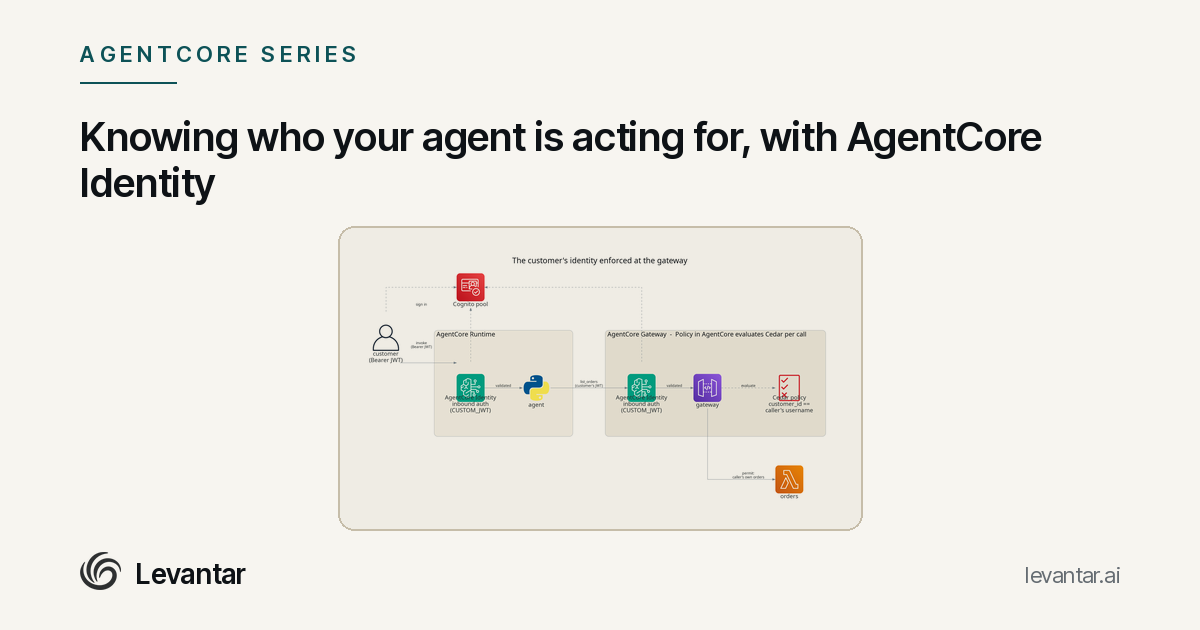
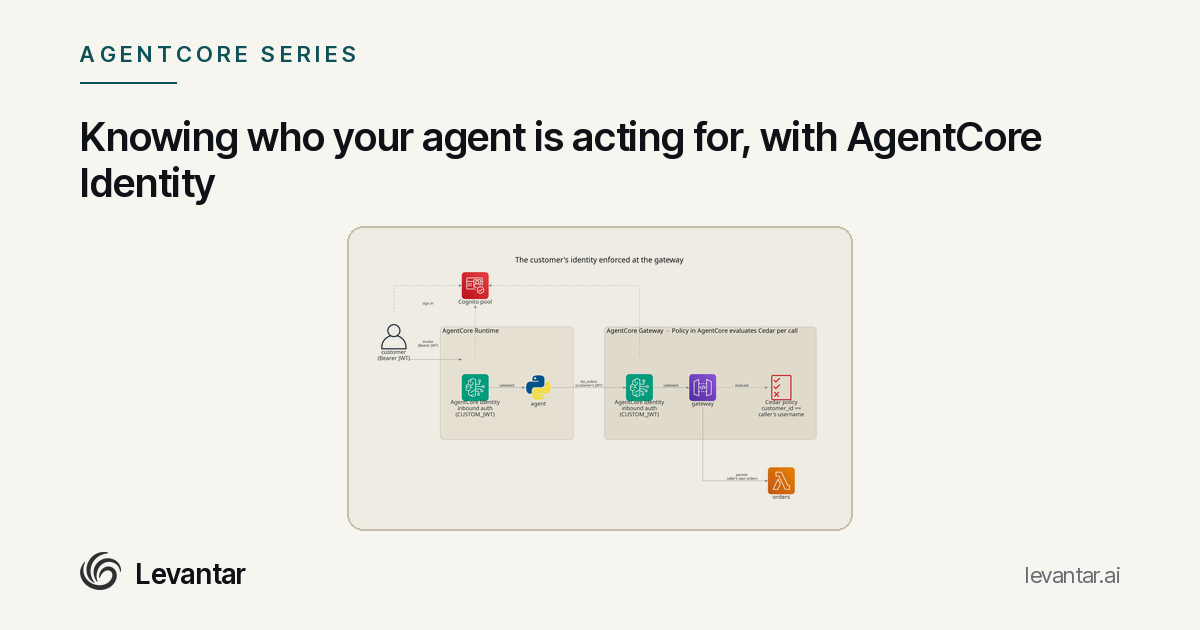
fix: stop label bleed in the post 05 architecture diagram
The three-line node labels (the two AgentCore Identity inbound-auth
authorizers and the Cedar policy) were given node_height for two lines, so the
third line rode up into the icon. Size those nodes to three lines so every
label sits cleanly below its icon, at both the post font and the boosted
social-card font. Diagram and rendered assets only.

Claude-Session: https://claude.ai/code/session_01YST1ZuMsoENqyeTYghbwr4

diff --git a/agentcore/05-identity/diagram.py b/agentcore/05-identity/diagram.py
@@ -58,17 +58,17 @@ with Diagram(
         "AgentCore Runtime",
         graph_attr={"fontsize": _fs(15), "margin": cluster_margin(), "bgcolor": "#f6f3ec"},
     ):
-        rt_auth = Bedrock(IDENTITY, height=_h(2))
+        rt_auth = Bedrock(IDENTITY, height=_h(3))
         agent = Python("agent", height=_h(1))
 
     with Cluster(
         "AgentCore Gateway  -  Policy in AgentCore evaluates Cedar per call",
         graph_attr={"fontsize": _fs(15), "margin": cluster_margin(), "bgcolor": "#efece4"},
     ):
-        gw_auth = Bedrock(IDENTITY, height=_h(2))
+        gw_auth = Bedrock(IDENTITY, height=_h(3))
         gateway = APIGateway("gateway", height=_h(1))
         policy = IdentityAndAccessManagementIamPermissions(
-            "Cedar policy\ncustomer_id ==\ncaller's username", height=_h(2)
+            "Cedar policy\ncustomer_id ==\ncaller's username", height=_h(3)
         )
 
     orders = Lambda("orders", height=_h(1))
